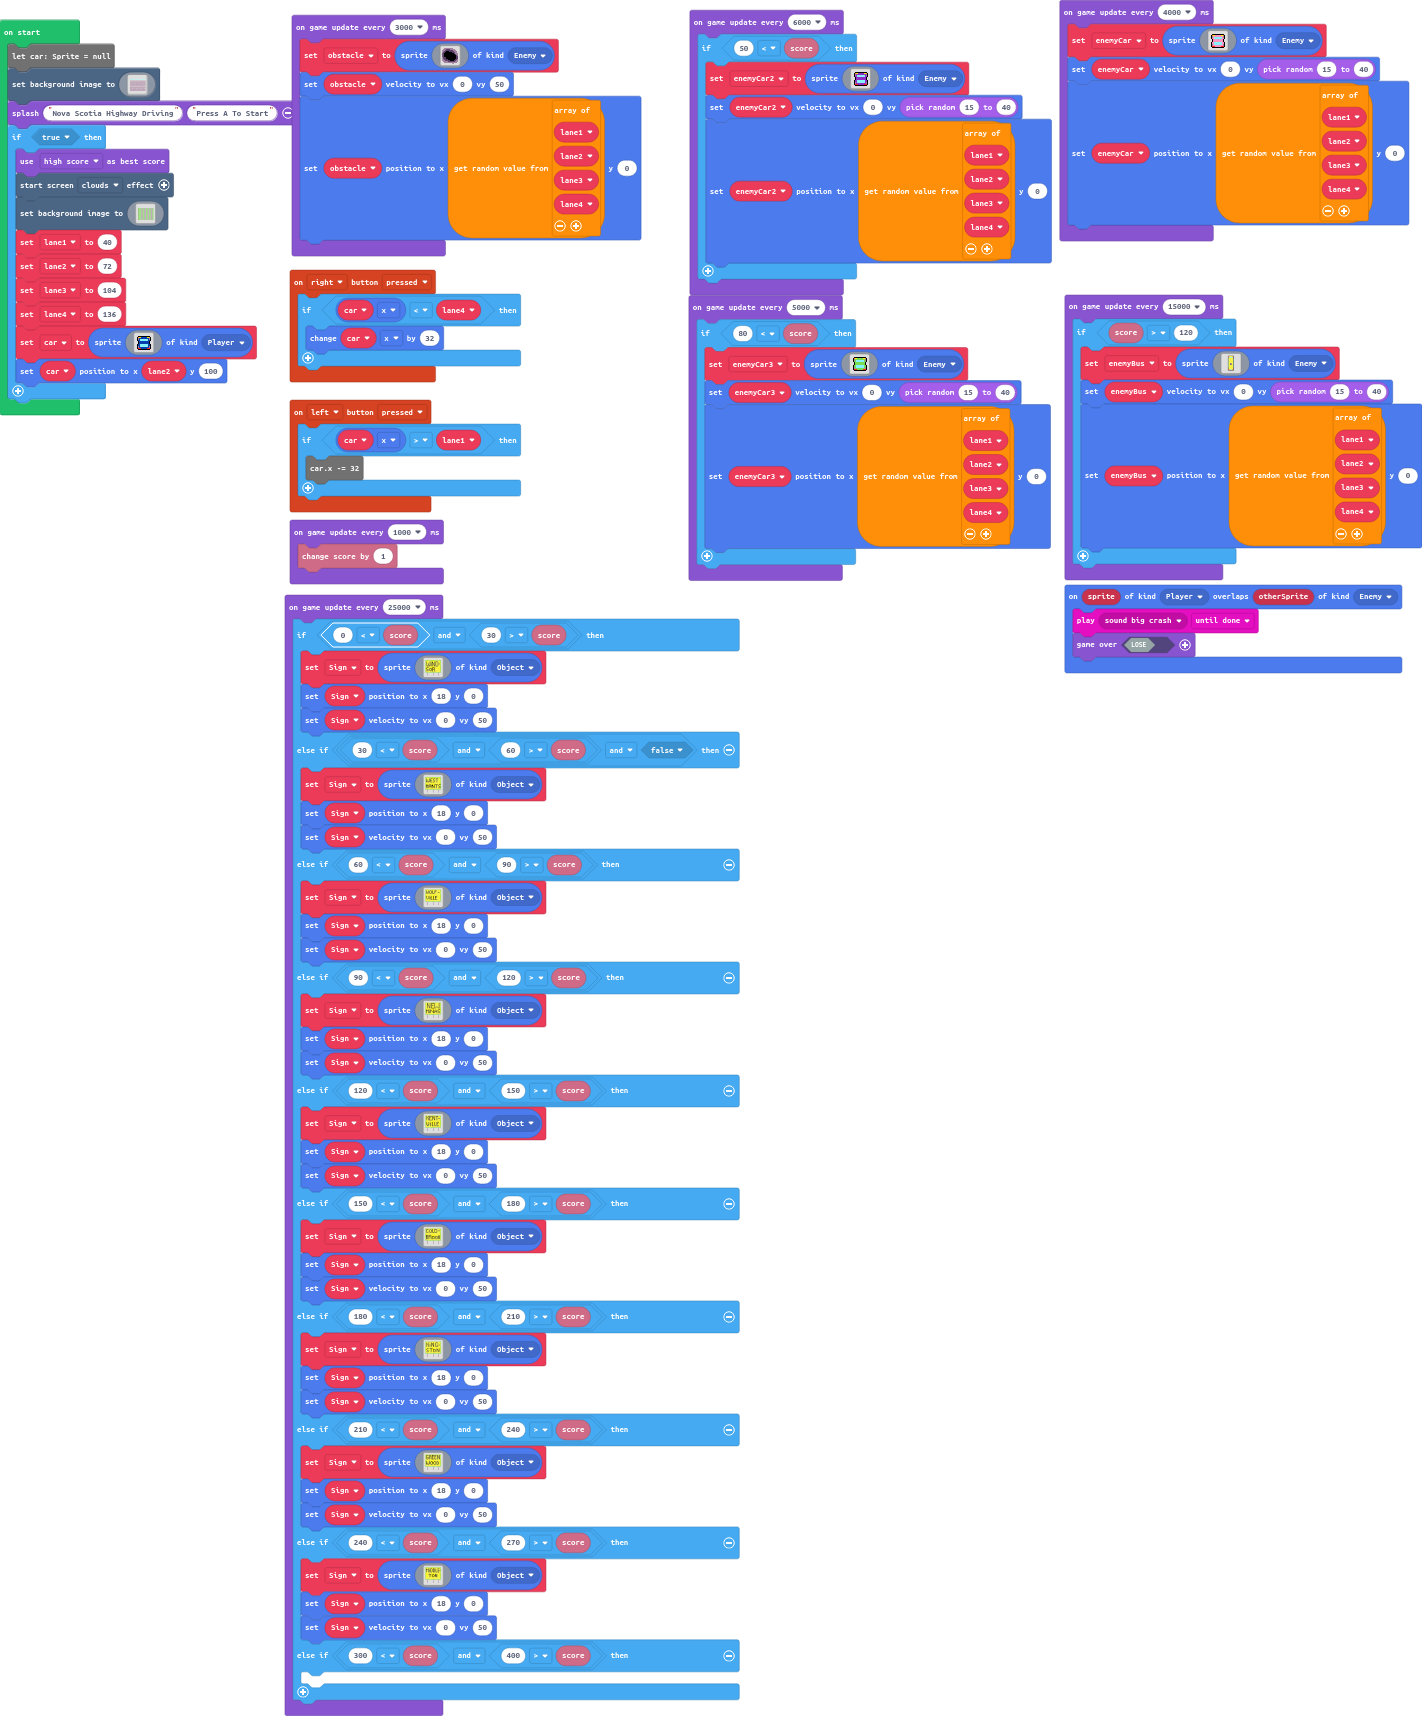
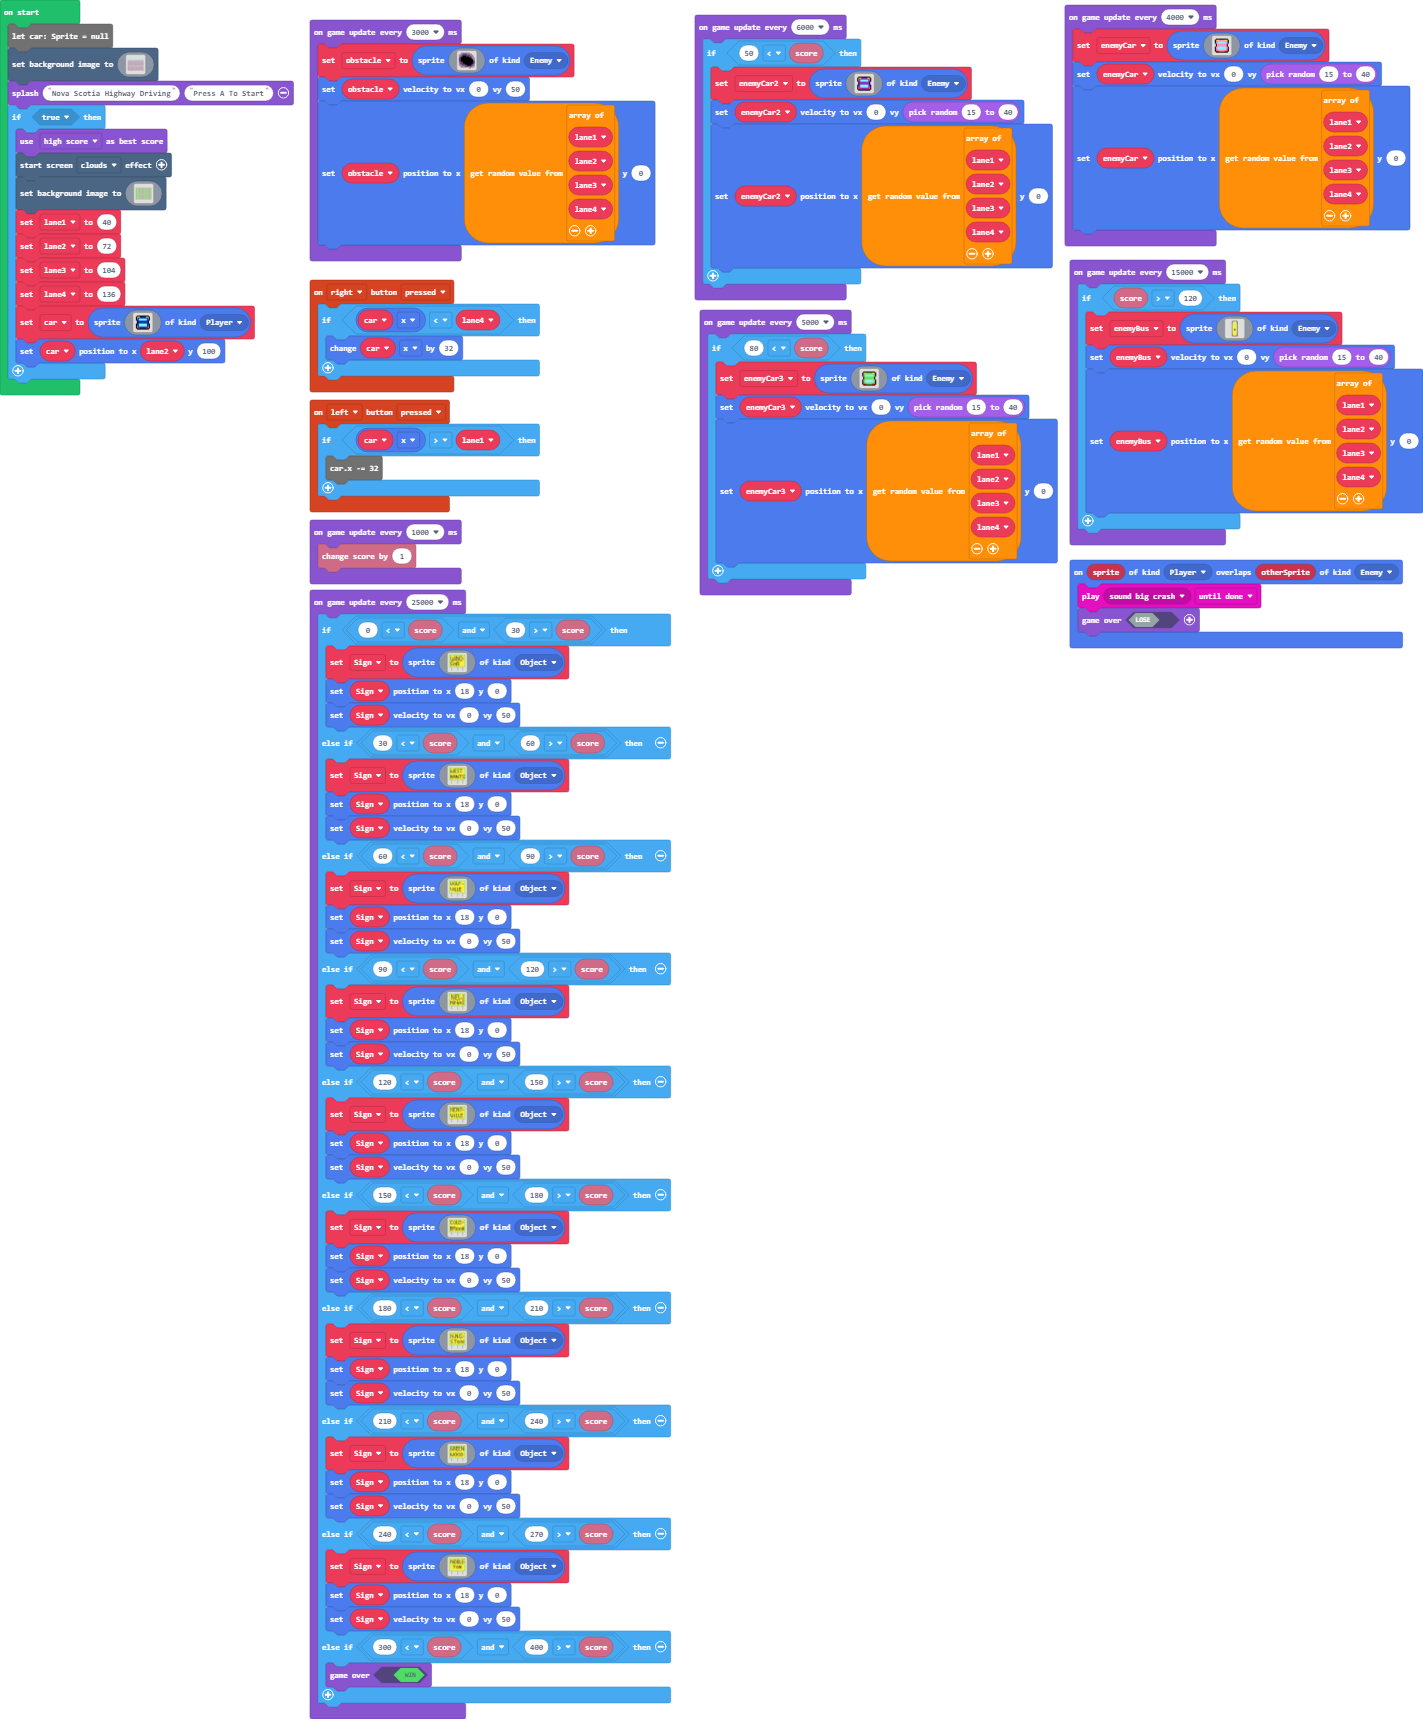
Newest Version

Changed region(s): [[0.0, 0.0, 1.0, 1.0]]

diff --git a/tilemap.g.ts b/tilemap.g.ts
@@ -18,6 +18,25 @@ namespace myTiles {
 . . . . . . . . . . 
 . . . . . . . . . . 
 `, [myTiles.transparency16,sprites.vehicle.roadVertical,sprites.skillmap.islandTile0,sprites.skillmap.islandTile3,sprites.skillmap.islandTile6,sprites.skillmap.islandTile1,sprites.skillmap.islandTile5,sprites.skillmap.islandTile2,sprites.skillmap.islandTile4,sprites.skillmap.islandTile8,sprites.skillmap.islandTile7], TileScale.Sixteen);
+            case "level2":
+            case "level2":return tiles.createTilemap(hex`1000100000000000000000000000000000000000000000000000000000000000000000000000000000000000000000000000000000000000000000000000000000000000000000000000000000000000000000000000000000000000000000000000000000000000000000000000000000000000000000000000000000000000000000000000000000000000000000000000000000000000000000000000000000000000000000000000000000000000000000000000000000000000000000000000000000000000000000000000000000000000000000000000000000000000000000000000000000000000000000000000000000000000000000000000000000000000`, img`
+. . . . . . . . . . . . . . . . 
+. . . . . . . . . . . . . . . . 
+. . . . . . . . . . . . . . . . 
+. . . . . . . . . . . . . . . . 
+. . . . . . . . . . . . . . . . 
+. . . . . . . . . . . . . . . . 
+. . . . . . . . . . . . . . . . 
+. . . . . . . . . . . . . . . . 
+. . . . . . . . . . . . . . . . 
+. . . . . . . . . . . . . . . . 
+. . . . . . . . . . . . . . . . 
+. . . . . . . . . . . . . . . . 
+. . . . . . . . . . . . . . . . 
+. . . . . . . . . . . . . . . . 
+. . . . . . . . . . . . . . . . 
+. . . . . . . . . . . . . . . . 
+`, [myTiles.transparency16], TileScale.Sixteen);
         }
         return null;
     })

diff --git a/main.ts b/main.ts
@@ -310,7 +310,7 @@ game.onUpdateInterval(25000, function () {
         Sign = sprites.create(assets.image`myImage9`, SpriteKind.Object)
         Sign.setPosition(18, 0)
         Sign.setVelocity(0, 50)
-    } else if (30 < info.score() && 60 > info.score() && false) {
+    } else if (30 < info.score() && 60 > info.score()) {
         Sign = sprites.create(assets.image`myImage12`, SpriteKind.Object)
         Sign.setPosition(18, 0)
         Sign.setVelocity(0, 50)
@@ -343,7 +343,7 @@ game.onUpdateInterval(25000, function () {
         Sign.setPosition(18, 0)
         Sign.setVelocity(0, 50)
     } else if (300 < info.score() && 400 > info.score()) {
-    	
+        game.gameOver(true)
     }
 })
 game.onUpdateInterval(1000, function () {
